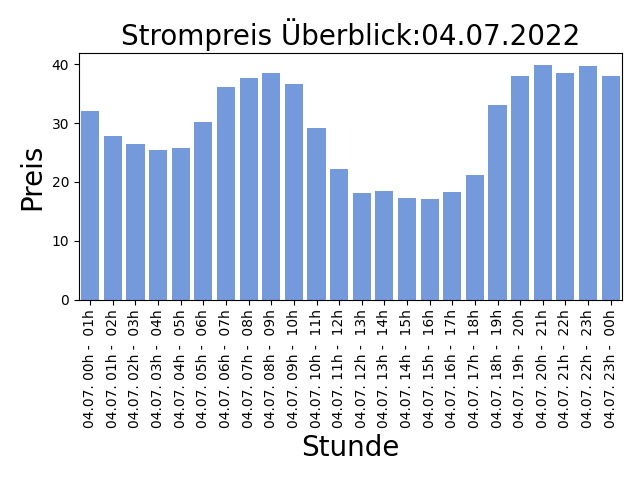
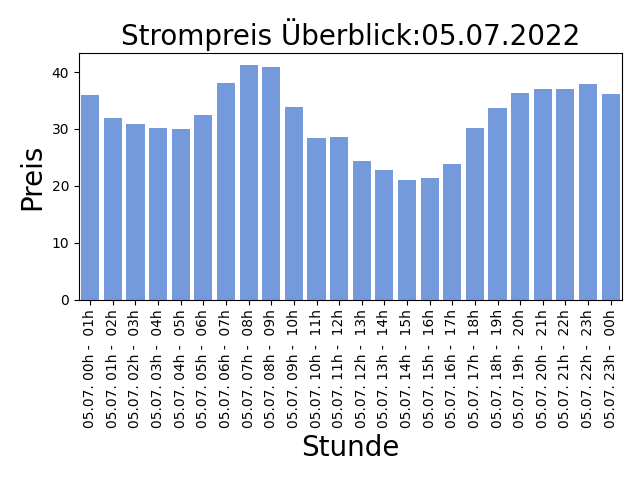
AUTOMATIC UPDATE PRICE LIST: 2022-07-04-14:30:05

diff --git a/README.md b/README.md
@@ -1,5 +1,5 @@
 
-## Strompreise für den 04.07.2022
+## Strompreise für den 05.07.2022
 
 Niedrige Preise deuten auf viel Sonnen und Windenergieerzeugung hin, ein hoher Anteil an erneuerbaren Energien bedeuted weniger CO2 Verbrauch!
 
@@ -7,31 +7,31 @@ Niedrige Preise deuten auf viel Sonnen und Windenergieerzeugung hin, ein hoher A
 
 | Stunde | Preis in Cent/kWh |
 |---|---|
-| 04.07. 00h -  01h | 31.964999999999996 | 
-| 04.07. 01h -  02h | 27.782999999999998 | 
-| 04.07. 02h -  03h | 26.516000000000002 | 
-| 04.07. 03h -  04h | 25.435 | 
-| 04.07. 04h -  05h | 25.802999999999997 | 
-| 04.07. 05h -  06h | 30.244 | 
-| 04.07. 06h -  07h | 36.188 | 
-| 04.07. 07h -  08h | 37.6 | 
-| 04.07. 08h -  09h | 38.517 | 
-| 04.07. 09h -  10h | 36.6 | 
-| 04.07. 10h -  11h | 29.169999999999998 | 
-| 04.07. 11h -  12h | 22.130000000000003 | 
-| 04.07. 12h -  13h | 18.18 | 
-| 04.07. 13h -  14h | 18.436 | 
-| 04.07. 14h -  15h | 17.235 | 
-| **04.07. 15h -  16h** | **17.119** | 
-| 04.07. 16h -  17h | 18.264 | 
-| 04.07. 17h -  18h | 21.11 | 
-| 04.07. 18h -  19h | 32.999 | 
-| 04.07. 19h -  20h | 37.962 | 
-| 04.07. 20h -  21h | 39.872 | 
-| 04.07. 21h -  22h | 38.552 | 
-| 04.07. 22h -  23h | 39.692 | 
-| 04.07. 23h -  00h | 37.964 | 
+| 05.07. 00h -  01h | 35.995999999999995 | 
+| 05.07. 01h -  02h | 31.924 | 
+| 05.07. 02h -  03h | 30.933 | 
+| 05.07. 03h -  04h | 30.107999999999997 | 
+| 05.07. 04h -  05h | 29.991000000000003 | 
+| 05.07. 05h -  06h | 32.482 | 
+| 05.07. 06h -  07h | 38.047000000000004 | 
+| 05.07. 07h -  08h | 41.259 | 
+| 05.07. 08h -  09h | 40.961 | 
+| 05.07. 09h -  10h | 33.868 | 
+| 05.07. 10h -  11h | 28.372000000000003 | 
+| 05.07. 11h -  12h | 28.660000000000004 | 
+| 05.07. 12h -  13h | 24.395 | 
+| 05.07. 13h -  14h | 22.794 | 
+| **05.07. 14h -  15h** | **21.095** | 
+| 05.07. 15h -  16h | 21.306 | 
+| 05.07. 16h -  17h | 23.78 | 
+| 05.07. 17h -  18h | 30.113999999999997 | 
+| 05.07. 18h -  19h | 33.625 | 
+| 05.07. 19h -  20h | 36.398 | 
+| 05.07. 20h -  21h | 37.0 | 
+| 05.07. 21h -  22h | 37.04 | 
+| 05.07. 22h -  23h | 37.829 | 
+| 05.07. 23h -  00h | 36.116 | 
 
 Preise der EPEX Spot ® Strombörse (neue Preise werden täglich um 14:00 veröffentlicht für den kompletten nächsten Tag).
 
-letzte Aktualisierung:03.07.2022 14:30
+letzte Aktualisierung:04.07.2022 14:30
